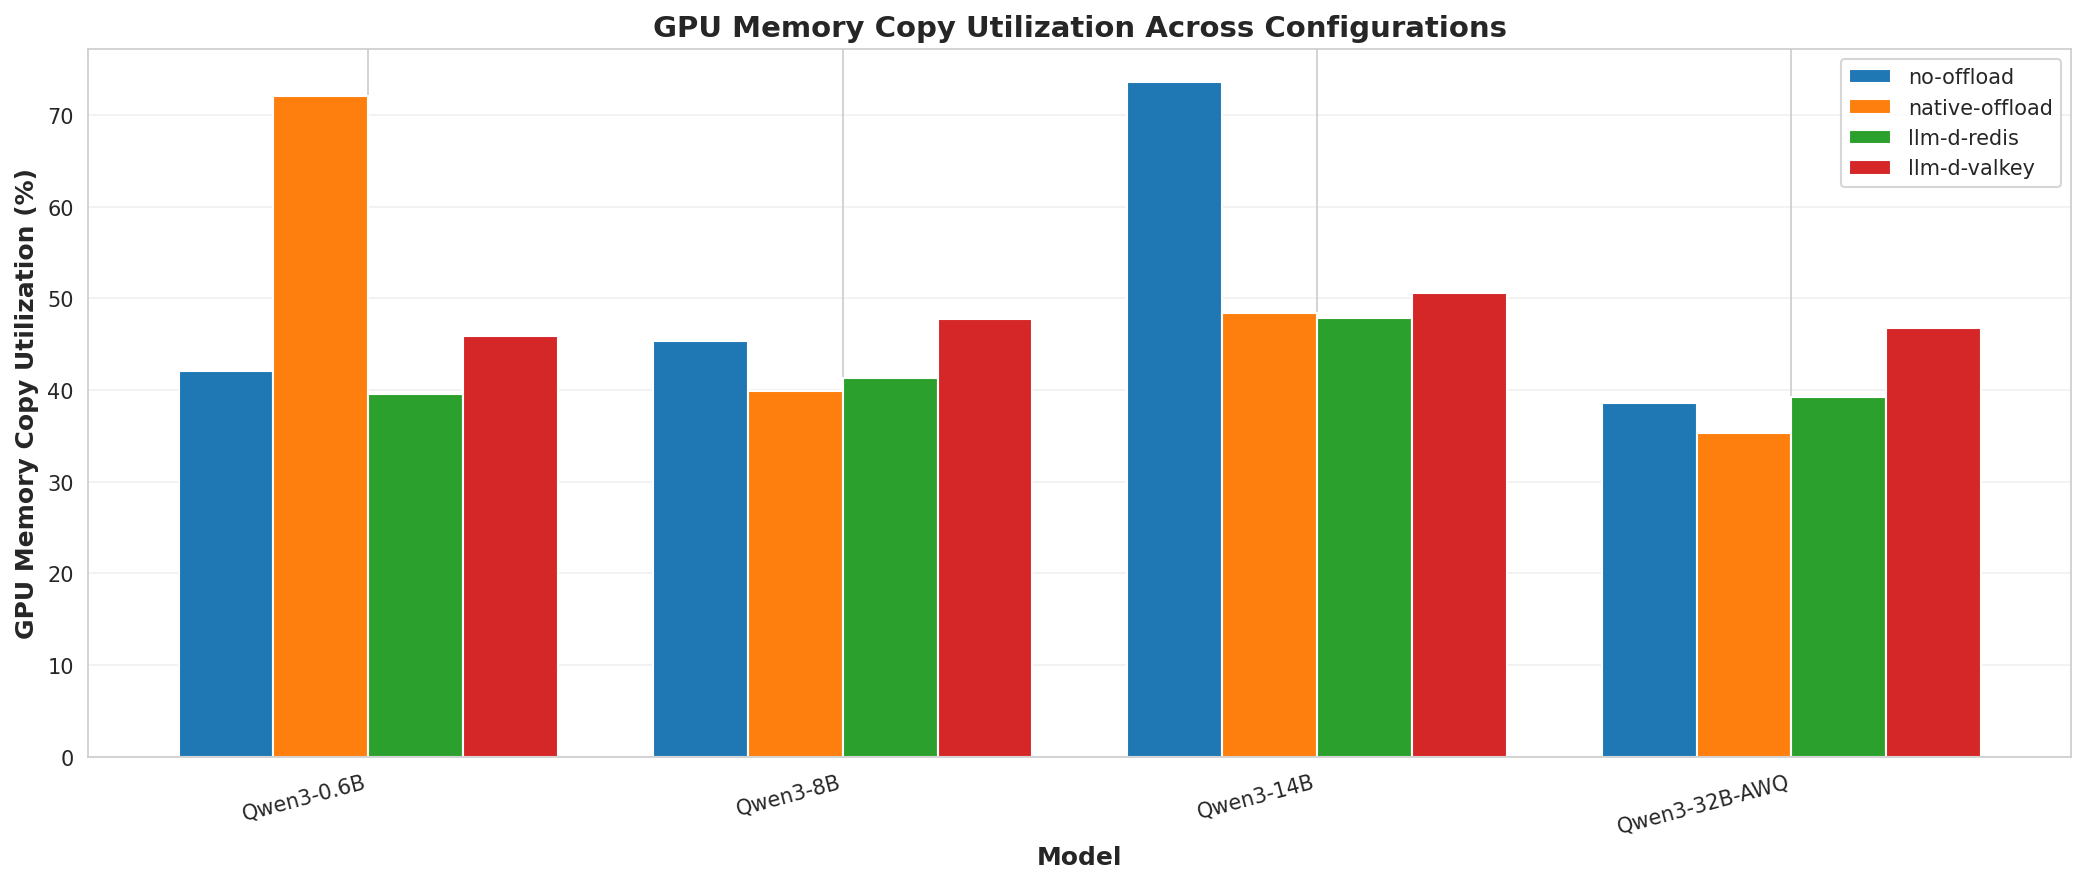
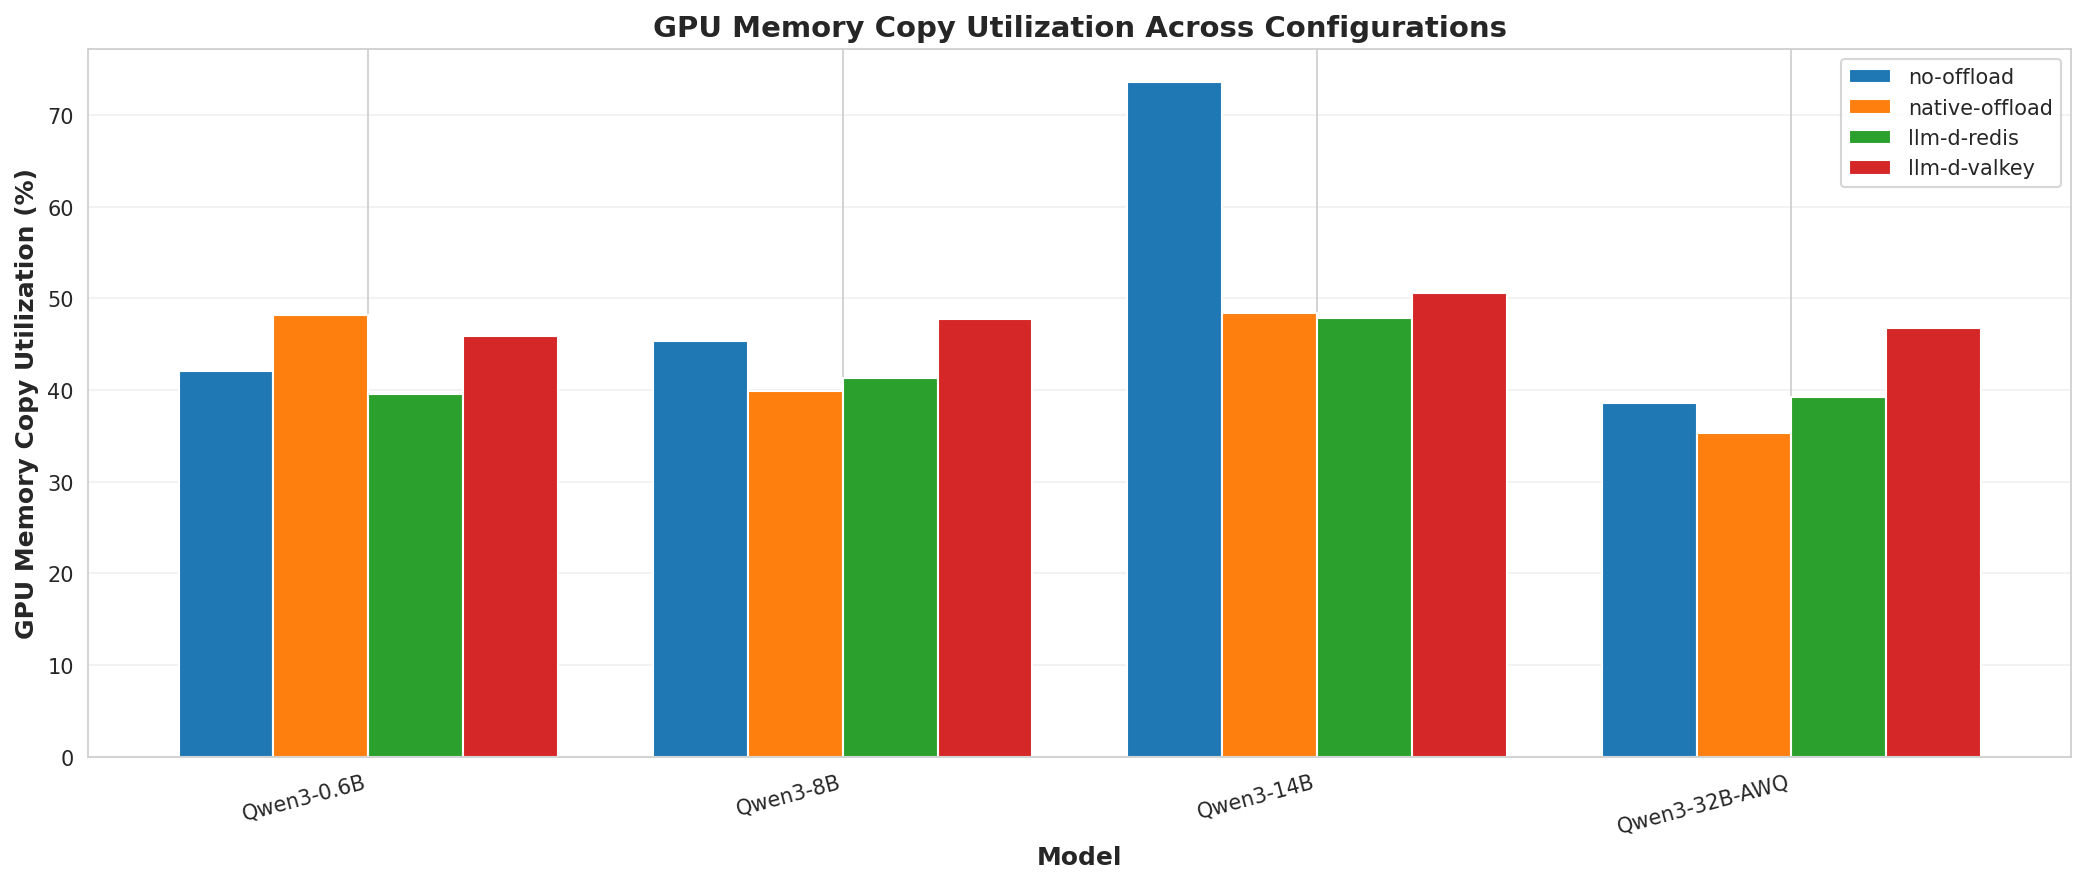
Report updates for complete 0.6B concurrency levels

Changed region(s): [[0.1246, 0.0916, 0.187, 0.3665]]

diff --git a/llm-d-kvcache-offload-eval/REPORT.md b/llm-d-kvcache-offload-eval/REPORT.md
@@ -112,7 +112,7 @@ Results presented show peak output token throughput achieved at optimal concurre
 | Model | Configuration | Peak Throughput (tok/s) | Optimal Concurrency | vs Baseline |
 |-------|---------------|------------------------:|--------------------:|------------:|
 | **Qwen3-0.6B** | no-offload | 4,889 | 500 | — |
-| | native-offload | 3,450 | 100 | **-29.4%** |
+| | native-offload | 4,268 | 400 | **-12.7%** |
 | | llm-d-redis | 4,868 | 650 | **-0.4%** |
 | | llm-d-valkey | 4,851 | 400 | **-0.8%** |
 | **Qwen3-8B** | no-offload | 2,619 | 500 | — |
@@ -174,7 +174,7 @@ Latency measurements at peak throughput conditions:
 
 | Model | no-offload | native-offload | llm-d-redis | llm-d-valkey |
 |-------|------------|----------------|-------------|--------------|
-| Qwen3-0.6B | 827 ms | 266 ms (-68%) | 1,076 ms (+30%) | 594 ms (-28%) |
+| Qwen3-0.6B | 827 ms | 684 ms (-17%) | 1,076 ms (+30%) | 594 ms (-28%) |
 | Qwen3-8B | 1,900 ms | 1,970 ms (+4%) | 1,895 ms (-0.3%) | 1,820 ms (-4%) |
 | Qwen3-14B | 2,174 ms | 2,318 ms (+7%) | 2,180 ms (+0.3%) | 2,167 ms (-0.3%) |
 | Qwen3-32B-AWQ | 2,129 ms | 2,173 ms (+2%) | 2,117 ms (-0.6%) | 2,125 ms (-0.2%) |
@@ -183,7 +183,7 @@ Latency measurements at peak throughput conditions:
 
 | Model | no-offload | native-offload | llm-d-redis | llm-d-valkey |
 |-------|------------|----------------|-------------|--------------|
-| Qwen3-0.6B | 102.2 ms | 27.9 ms (-73%) | 133.4 ms (+31%) | 82.5 ms (-19%) |
+| Qwen3-0.6B | 102.2 ms | 86.2 ms (-16%) | 133.4 ms (+31%) | 82.5 ms (-19%) |
 | Qwen3-8B | 192.0 ms | 206.4 ms (+8%) | 192.5 ms (+0.2%) | 189.5 ms (-1.3%) |
 | Qwen3-14B | 201.7 ms | 211.8 ms (+5%) | 199.5 ms (-1.1%) | 201.5 ms (-0.1%) |
 | Qwen3-32B-AWQ | 144.4 ms | 147.0 ms (+2%) | 144.0 ms (-0.3%) | 144.5 ms (+0.1%) |
@@ -211,14 +211,14 @@ These results indicate that the overhead of distributed KV-block indexing and ca
 
 ### Native Offloading Performance Degradation
 
-The vLLM OffloadingConnector shows mixed results:
+The vLLM OffloadingConnector shows varying performance impact across model sizes:
 
-- **Qwen3-0.6B**: -29.4% throughput
+- **Qwen3-0.6B**: -12.7% throughput
 - **Qwen3-8B**: -7.0% throughput
 - **Qwen3-14B**: -4.8% throughput
 - **Qwen3-32B-AWQ**: -1.8% throughput
 
-The 0.6B model exhibits severe performance degradation (-29.4%) when combining native-offload with TP=2. The latency metrics show anomalous improvements (TTFT -68%, TPOT -73%) that contradict the severe throughput degradation. This suggests the model may be operating in a suboptimal mode where individual requests complete faster but overall system throughput is significantly reduced, possibly due to serialization or resource contention issues specific to tiny models with TP=2.
+The 0.6B model exhibits moderate performance degradation (-12.7%) when combining native-offload with TP=2. The latency metrics show modest reductions compared to baseline (TTFT -17%, TPOT -16%) measured at peak throughput conditions (concurrency 400 vs 500 for baseline), indicating that CPU-GPU data transfer overhead impacts token generation efficiency. The throughput degradation is less severe than initially observed due to the model achieving peak performance at concurrency 400 rather than the incomplete benchmark's concurrency 100.
 
 For larger models (8B/14B/32B), the degradation correlates with increased **TPOT latency** (+2% to +8%), suggesting that CPU-GPU data transfer overhead impacts token generation throughput. The degradation decreases for larger models (8B: -7.0% → 32B: -1.8%), possibly because compute-bound operations increasingly dominate over memory transfer overhead.
 
@@ -314,7 +314,7 @@ System-level CPU and GPU utilization metrics were extracted from PCP archives to
 
 | Model | no-offload | native-offload | llm-d-redis | llm-d-valkey |
 |-------|------------|----------------|-------------|--------------|
-| Qwen3-0.6B | 22.8% | **45.0% (+22.2%)** | 24.0% (+1.2%) | 25.9% (+3.1%) |
+| Qwen3-0.6B | 22.8% | 26.6% (+3.8%) | 24.0% (+1.2%) | 25.9% (+3.1%) |
 | Qwen3-8B | 21.7% | 21.1% (-0.6%) | 21.8% (+0.1%) | 23.4% (+1.7%) |
 | Qwen3-14B | 35.5% | 20.9% (-14.6%) | 20.7% (-14.8%) | 22.4% (-13.1%) |
 | Qwen3-32B-AWQ | 22.8% | 22.3% (-0.4%) | 22.6% (-0.1%) | 26.1% (+3.3%) |
@@ -323,7 +323,7 @@ System-level CPU and GPU utilization metrics were extracted from PCP archives to
 
 | Model | no-offload | native-offload | llm-d-redis | llm-d-valkey |
 |-------|------------|----------------|-------------|--------------|
-| Qwen3-0.6B | 68.7% | **112.1% (+43.5%)** | 66.8% (-1.9%) | 75.0% (+6.3%) |
+| Qwen3-0.6B | 68.7% | 76.8% (+8.1%) | 66.8% (-1.9%) | 75.0% (+6.3%) |
 | Qwen3-8B | 74.4% | 74.9% (+0.5%) | 77.1% (+2.7%) | 85.6% (+11.2%) |
 | Qwen3-14B | 84.8% | 78.7% (-6.1%) | 78.1% (-6.7%) | 83.5% (-1.3%) |
 | Qwen3-32B-AWQ | 72.5% | 74.9% (+2.4%) | 72.0% (-0.5%) | 87.7% (+15.1%) |
@@ -332,14 +332,14 @@ System-level CPU and GPU utilization metrics were extracted from PCP archives to
 
 | Model | no-offload | native-offload | llm-d-redis | llm-d-valkey |
 |-------|------------|----------------|-------------|--------------|
-| Qwen3-0.6B | 42.1% | **72.1% (+30.0%)** | 39.6% (-2.5%) | 45.9% (+3.9%) |
+| Qwen3-0.6B | 42.1% | 48.2% (+6.1%) | 39.6% (-2.5%) | 45.9% (+3.9%) |
 | Qwen3-8B | 45.4% | 39.9% (-5.4%) | 41.3% (-4.0%) | 47.8% (+2.4%) |
 | Qwen3-14B | 73.6% | 48.4% (-25.1%) | 47.8% (-25.7%) | 50.5% (-23.0%) |
 | Qwen3-32B-AWQ | 38.6% | 35.3% (-3.3%) | 39.2% (+0.6%) | 46.8% (+8.1%) |
 
 Key observations:
 
-- **0.6B native-offload shows significant overhead**: CPU utilization increases by 22.2% (45.0% vs 22.8%), confirming that CPU KV-cache management introduces measurable overhead. The anomalously high GPU utilization (112%) is likely due to DCGM metrics being aggregated across both GPUs in the TP=2 configuration. GPU memory copy utilization increases by 30.0%, indicating substantial GPU-CPU transfer activity that contributes to the -29.4% throughput degradation.
+- **0.6B native-offload shows modest overhead**: CPU utilization increases by 3.8% (26.6% vs 22.8%), GPU utilization increases by 8.1% (76.8% vs 68.7%), and GPU memory copy utilization increases by 6.1% (48.2% vs 42.1%). These modest increases confirm that CPU KV-cache offloading introduces measurable but not excessive overhead, contributing to the -12.7% throughput degradation observed at higher concurrency levels.
 
 - **llm-d distributed indexing has minimal CPU overhead**: llm-d-redis and llm-d-valkey configurations show CPU utilization within +0.1% to +3.3% of baseline for 8B/32B models, confirming that distributed KV-block indexing and cache-aware request routing introduce negligible CPU overhead.
 
